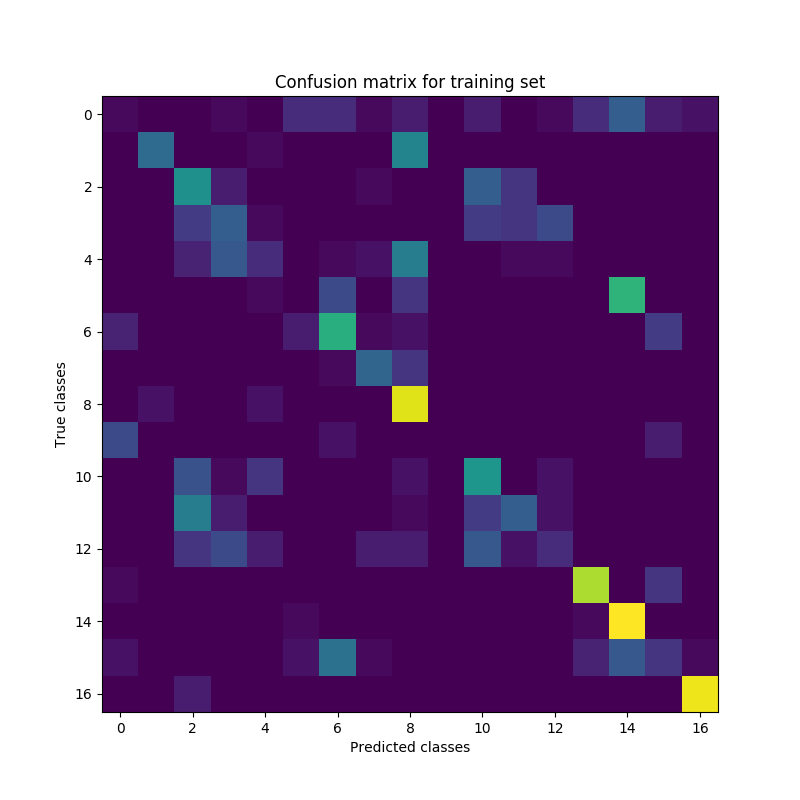
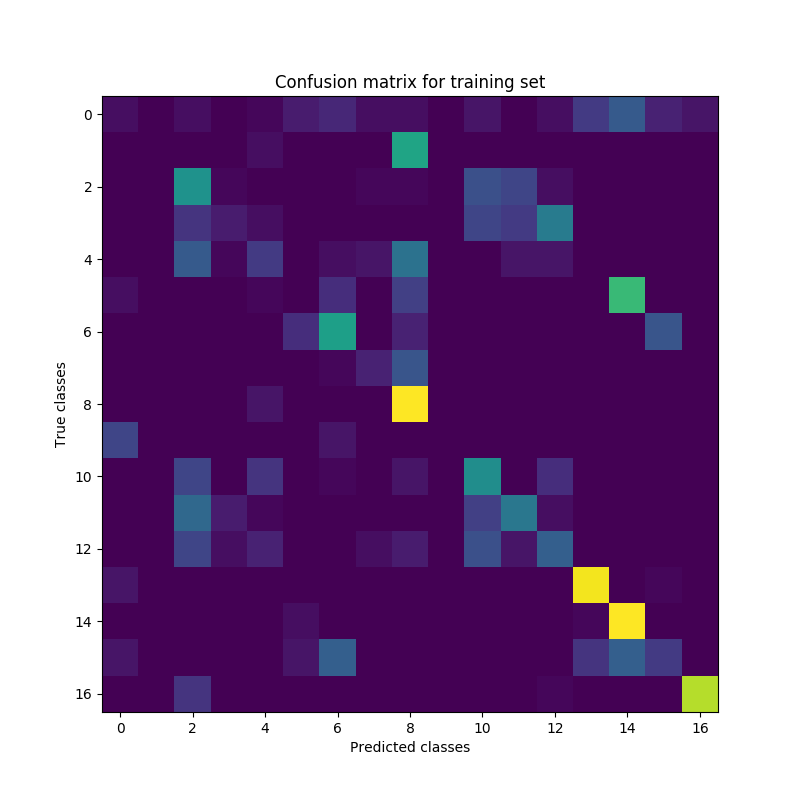
Added outlier detection and removal. Updated figures. The only task left might be to perform full-pipe CV of linear classifier.

diff --git a/project/src/main.py b/project/src/main.py
@@ -6,12 +6,27 @@ from mpl_toolkits import mplot3d
 
 from dataloader import Dataloader
 from plotting import data_inspection, pca_inspection, pls_inspection, kernel_pca_inspection
-from preprocess import create_table, create_test_set, data_preprocess, remove_class, resample_dataset
+from preprocess import create_table, create_test_set, data_preprocess, remove_class
+from preprocess import resample_dataset, hotellings_t2, inspect_outliers, normalize
+from preprocess import remove_outliers
 from classification import linear_classification, svm_cross_validation, svm_classification
 
 def main():
     # Set seed for reproducability
     np.random.seed(6969)
+
+    # Preprocess
+    do_smoothing = False
+    do_subset = False
+    do_snv = False
+    do_normalize = False
+    
+    # Analysis
+    inspection = 'processed'
+    show_plots = True
+    do_outlier_filtering = False
+    do_linear_class = False
+    do_nonlinear_class = False
 
     # Load data
     dir_path = '../datasets/indian_pines'
@@ -23,23 +38,13 @@ def main():
     # Create tables, resample and create test set
     X = dataloader.get_calibrated_samples()
     Y = dataloader.get_labels()
+    W = dataloader.get_wave_lengths()
     X = create_table(X)
     Y = create_table(Y)
     X, Y = resample_dataset(X, Y, 4.0)
     X_train, Y_train, X_test, Y_test = create_test_set(X, Y, test_frac=0.30)
 
-    # Data inspection
-    W = dataloader.get_wave_lengths()
-    #data_inspection(W, X_train[0:500,:], Y_train[0:500], 17, 1, (8,6), 
-            #'Radiance Spectra Samples', 'Wave Length [nm]', 'Radiance [Wm^(-2)sr^(-1)]')
-    
-    # Remove class
-    #X_train, Y_train = remove_class(X_train, Y_train, 0)
-    #X_test, Y_test = remove_class(X_test, Y_test, 0)
-    #Y_train[Y_train==16] = 0
-    #Y_test[Y_test==16] = 0
-
-    # Data preprocess
+    # Smoothing, subset selection, SNV
     avg_window = 5
     # 0-38, 42-44, 48-53, 65-73, 84-86, 91-98, 120-144, 167-169, 172-220
     subset1 = np.arange(0, 38)
@@ -54,32 +59,47 @@ def main():
     subset_inds = np.concatenate((subset1, subset2, subset3, subset4,
         subset5, subset6, subset7, subset8, subset9))
     X_train, X_test = data_preprocess(X_train, X_test, avg_window, subset_inds,
-            do_smoothing=True, do_subset=True, do_snv=True, do_normalize=True)
-    W = dataloader.get_wave_lengths(subset_inds)
+            do_smoothing, do_subset, do_snv, False)
+    #W = dataloader.get_wave_lengths(subset_inds)
+
+    # Outlier detection
+    if do_outlier_filtering:
+        outliers = hotellings_t2(X_train, Y_train, 0.05, True, False,
+                fig_num=3, fig_size=(12,6))
+        outliers = np.take(outliers, [2]) # 95% CI: Total 45; 2
+        inspect_outliers(W, X_train, outliers)
+        X_train, Y_train = remove_outliers(X_train, Y_train, outliers)
+    
+    # Normalization
+    if do_normalize:
+        X_train = normalize(X_train)
+        X_test = normalize(X_test)
 
     # PCA inspection
-    inspection = ''
-    if inspection == 'pls':
+    if inspection == 'processed':
+        data_inspection(W, X_train, Y_train, 17, 1, (12,6), 'Raw Data', 
+                'Wave lengths [nm]', 'Radiance [Wm^(-2)sr^(-1)]')
+    elif inspection == 'pls':
         pls_inspection(X_train, Y_train, n_comps=8)
     elif inspection == 'pca':
-        pca_inspection(X_train, Y_train, n_comps=None)
+        pca_inspection(X_train, Y_train, n_comps=8)
     elif inspection == 'kpca':
         kernel_pca_inspection(X_train, Y_train, 8, 'linear')
 
     # Linear classification
-    #linear_classification(X_train, Y_train, X_test, Y_test, n_folds=5, n_comps_max=10, 
-            #threshold=0.90, show_plot=True, fignum=2, figsize=(8,6), normalize=False)
+    if do_linear_class:
+        linear_classification(X_train, Y_train, X_test, Y_test, n_folds=5, n_comps_max=10,
+                threshold=0.90, show_plots=show_plots, fignum=2, figsize=(8,6), normalize=False)
 
     # Non-linear classification
-    gamma_min = 1e-5 #1e-5
-    gamma_max = 3e-1 #3e-1
-    n_gammas = 30 #30
-    gammas = np.linspace(gamma_min, gamma_max, n_gammas)
-    #best_gamma = svm_cross_validation(X_train, Y_train, n_folds=5, kernel='rbf', 
-            #gammas=gammas)
-    best_gamma = gammas[7]
-    svm_classification(X_train, Y_train, X_test, Y_test, kernel='rbf', gamma=best_gamma)
-    
+    if do_nonlinear_class:
+        gamma_min = 1e-5 #1e-5
+        gamma_max = 3e-1 #3e-1
+        n_gammas = 30 #30
+        gammas = np.linspace(gamma_min, gamma_max, n_gammas)
+        best_gamma = svm_cross_validation(X_train, Y_train, n_folds=5, kernel='rbf', 
+                gammas=gammas, show_plots=show_plots)
+        svm_classification(X_train, Y_train, X_test, Y_test, kernel='rbf', gamma=best_gamma)
 
 if __name__ == '__main__':
     main()

diff --git a/project/src/preprocess.py b/project/src/preprocess.py
@@ -6,8 +6,10 @@ import numpy as np
 import matplotlib
 matplotlib.use('TkAgg')
 import matplotlib.pyplot as plt
+from sklearn import decomposition
 
 from typing import Tuple, Dict
+
 
 def data_preprocess(X_train: np.ndarray, X_test: np.ndarray, w: int, subset_inds: np.ndarray,
         do_smoothing: bool, do_subset: bool, do_snv: bool, do_normalize: bool):
@@ -127,3 +129,74 @@ def resample_dataset(X: np.ndarray, Y: np.ndarray, scale: float):
     X_resampled = np.take(X, inds, axis=0)
     Y_resampled = np.take(Y, inds, axis=0)
     return X_resampled, Y_resampled
+
+def hotellings_t2(X: np.ndarray, Y: np.ndarray, alpha: float, return_outliers: bool, show: bool,
+        fig_num: int, fig_size: Tuple[int, int]):
+    # PCA 
+    model = decomposition.PCA(n_components=2)
+    scores = model.fit_transform(X)
+    angles = np.arctan2(scores[:,1], scores[:,0])
+    radii = np.linalg.norm(scores, axis=1)
+    # Make circles
+    thetas = np.concatenate((np.linspace(-np.pi, np.pi, 50), np.linspace(np.pi, -np.pi, 50)))
+    circle = np.array((np.cos(thetas), np.sin(thetas)))
+    # Compute 1-alpha ellipse
+    sigmas = np.cov(np.array((scores[:,0], scores[:,1])))
+    ci = np.sqrt(scipy.stats.chi2.ppf(1-alpha, 2))
+    ellipse = np.transpose(circle).dot(np.linalg.cholesky(sigmas)*ci)
+    a, b = np.max(ellipse[:,0]), np.max(ellipse[:,1])
+    t = np.linspace(0, 2*np.pi, 100)
+    # Calculate outliers
+    indices = np.arange(X.shape[0])
+    ss = np.sin(angles)
+    cs = np.cos(angles)
+    ellipse_radii = a*b/np.sqrt(a*a*ss*ss + b*b*cs*cs)
+    outliers = np.squeeze(np.argwhere(radii > ellipse_radii))
+    inliers = np.setdiff1d(indices, outliers)
+    # Get scores
+    outlier_scores = np.take(scores, outliers, axis=0)
+    inlier_scores = np.take(scores, inliers, axis=0)
+    if show:
+        plt.figure(num=fig_num, figsize=fig_size)
+        outlier_plot = plt.scatter(outlier_scores[:,0], outlier_scores[:,1], s=3, c='Red')
+        inlier_plot = plt.scatter(inlier_scores[:,0], inlier_scores[:,1], s=3, c='Blue')
+        ci_plot, = plt.plot(a*np.cos(t), b*np.sin(t), color='black')
+        plt.grid(color='lightgray', linestyle='--')
+        plt.title('PCA Scores and Hotelling\'s Conf. Bounds')
+        plt.xlabel('PC1')
+        plt.ylabel('PC2')
+        plt.legend([outlier_plot, inlier_plot, ci_plot], 
+                ['Scores (outliers)', 'Scores', 
+                    'Hotelling\'s {:.0f}%-CI bounds'.format((1-alpha)*100)])
+        plt.show()
+
+    if return_outliers:
+        return outliers
+    else:
+        return np.array([])
+
+def inspect_outliers(W: np.ndarray, X: np.ndarray, outliers: np.ndarray):
+    indices = np.arange(X.shape[0])
+    inliers = np.setdiff1d(indices, outliers)
+    Xout = np.take(X, outliers, axis=0)
+    Xin = np.take(X, inliers, axis=0)
+    fig = plt.figure(figsize=(12,6))
+    ax = fig.add_subplot(111)
+    ax.plot(W, Xin.T, c='blue', label='Samples')
+    ax.plot(W, Xout.T, c='red', label='Samples (outliers)')
+    ax.set_title('Preprocessed Samples')
+    ax.set_ylabel('')
+    ax.set_xlabel('Wave lengths [nm]')
+    handles, labels = plt.gca().get_legend_handles_labels()
+    new_handles, new_labels = [], []
+    for handle, label in zip(handles, labels):
+        if label not in new_labels:
+            new_handles.append(handle)
+            new_labels.append(label)
+    plt.legend(new_handles, new_labels)
+    plt.show()
+
+def remove_outliers(X: np.ndarray, Y: np.ndarray, outliers: np.ndarray):
+    indices = np.arange(X.shape[0])
+    inliers = np.setdiff1d(indices, outliers)
+    return np.take(X, inliers, axis=0), np.take(Y, inliers, axis=0)

diff --git a/project/src/classification.py b/project/src/classification.py
@@ -55,7 +55,7 @@ def analyze_results(Y_train: np.ndarray, Yhat_train: np.ndarray, probs_train: np
     plt.show()
 
 def linear_classification(X: np.ndarray, Y: np.ndarray, X_test: np.ndarray,
-        Y_test: np.ndarray, n_folds: int, n_comps_max: int, threshold: float, show_plot: bool,
+        Y_test: np.ndarray, n_folds: int, n_comps_max: int, threshold: float, show_plots: bool,
         fignum: int, figsize: Tuple[int, int], normalize: bool):
     # Create k-folds
     kf = KFold(n_splits=n_folds)
@@ -70,7 +70,7 @@ def linear_classification(X: np.ndarray, Y: np.ndarray, X_test: np.ndarray,
     cum_var_means = np.mean(cum_var_ratios, axis=0)
     cum_var_stds = np.std(cum_var_ratios, axis=0)
     # Plot CV explained variance
-    if show_plot:
+    if show_plots:
         plt.figure(num=fignum, figsize=figsize)
         plt.errorbar(np.arange(0, n_comps_max+1), cum_var_means, yerr=cum_var_stds, ecolor='r')
         plt.title('Explained Variance ({:d}-fold CV)'.format(n_folds))
@@ -86,7 +86,7 @@ def linear_classification(X: np.ndarray, Y: np.ndarray, X_test: np.ndarray,
     # PCA model
     pca_model = decomposition.PCA(n_components=n_comps)
     train_scores = pca_model.fit_transform(X)
-    if show_plot:
+    if show_plots:
         pca_inspection(X, Y, n_comps)
     test_scores = pca_model.transform(X_test)
     # LDA model
@@ -102,7 +102,7 @@ def linear_classification(X: np.ndarray, Y: np.ndarray, X_test: np.ndarray,
             normalize=normalize)
 
 def svm_cross_validation(X: np.ndarray, Y: np.ndarray, n_folds: int, kernel: str, 
-        gammas: np.ndarray,decision: str='ovr'):
+        gammas: np.ndarray, show_plots: bool, decision: str='ovr'):
     kf = KFold(n_splits=n_folds, shuffle=True)
     n_gammas = gammas.shape[0]
     val_accs = np.zeros((n_folds, n_gammas))
@@ -126,20 +126,21 @@ def svm_cross_validation(X: np.ndarray, Y: np.ndarray, n_folds: int, kernel: str
     mean_losses = np.mean(val_losses, axis=0)
     std_losses = np.std(val_losses, axis=0)
 
-    fig = plt.figure(1, (8,8))
-    ax1 = fig.add_subplot(2, 1, 1)
-    ax1.errorbar(gammas, mean_accs, yerr=std_accs, ecolor='r')
-    ax1.set_title('Accuracy ({:d}-fold CV)'.format(n_folds))
-    ax1.set_ylabel('Accuracy [-]')
-    ax1.set_xlabel('Gamma [-]')
-    ax1.set_xlim(gammas[0], gammas[-1])
-    ax2 = fig.add_subplot(2, 1, 2)
-    ax2.errorbar(gammas, mean_losses, yerr=std_losses, ecolor='r')
-    ax2.set_title('Cross entropy loss ({:d}-fold CV)'.format(n_folds))
-    ax2.set_ylabel('Cross entropy [-]')
-    ax2.set_xlabel('Gamma [-]')
-    ax2.set_xlim(gammas[0], gammas[-1])
-    plt.show()
+    if show_plots:
+        fig = plt.figure(1, (8,8))
+        ax1 = fig.add_subplot(2, 1, 1)
+        ax1.errorbar(gammas, mean_accs, yerr=std_accs, ecolor='r')
+        ax1.set_title('Accuracy ({:d}-fold CV)'.format(n_folds))
+        ax1.set_ylabel('Accuracy [-]')
+        ax1.set_xlabel('Gamma [-]')
+        ax1.set_xlim(gammas[0], gammas[-1])
+        ax2 = fig.add_subplot(2, 1, 2)
+        ax2.errorbar(gammas, mean_losses, yerr=std_losses, ecolor='r')
+        ax2.set_title('Cross entropy loss ({:d}-fold CV)'.format(n_folds))
+        ax2.set_ylabel('Cross entropy [-]')
+        ax2.set_xlabel('Gamma [-]')
+        ax2.set_xlim(gammas[0], gammas[-1])
+        plt.show()
 
     best_gamma = gammas[np.argmin(mean_losses)]
     return best_gamma
